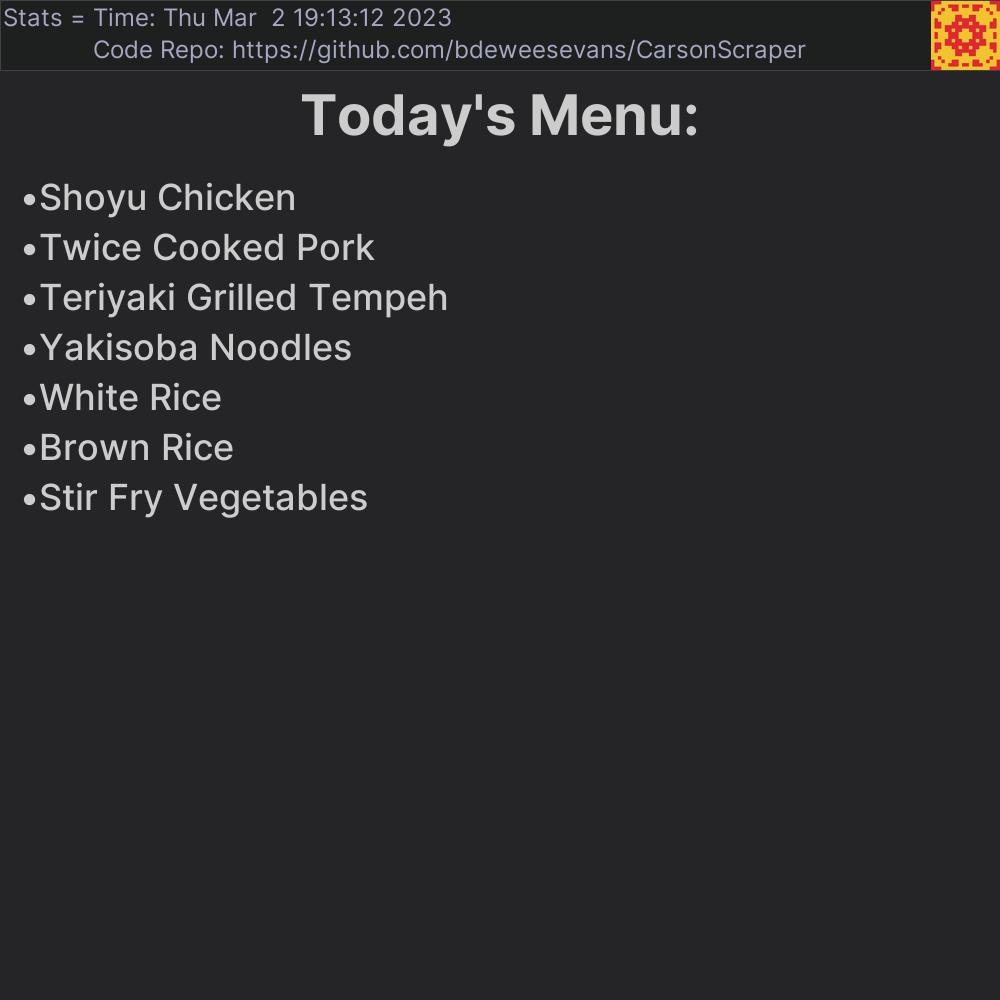
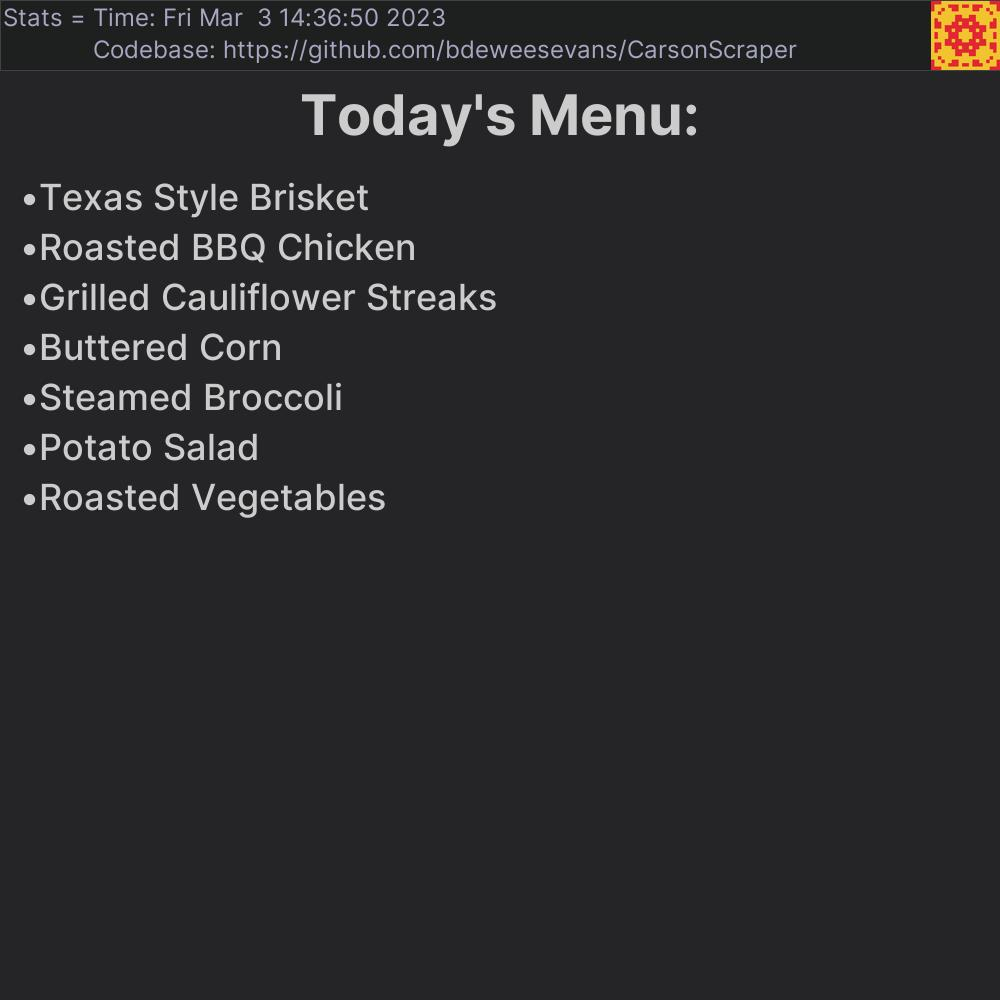
added gitignore file

Changed region(s): [[0.031, 0.186, 0.496, 0.527], [0.155, 0.0, 0.806, 0.062]]

diff --git a/imageCreator.py b/imageCreator.py
@@ -28,7 +28,7 @@ def image_creator(menu_items, image_width, image_height):
     statsFont = ImageFont.truetype('assets/fonts/Inter-Regular.ttf', int(image_width * 0.024), encoding="unic")
     text_width, text_height = statsFont.getsize(unicode_text)
     draw.text((3, 2), f"Stats = Time: {time.ctime()}", font=statsFont, fill=(165, 168, 194))    #add stats like followers?
-    draw.text((3 + text_width, image_height*0.034), "Code Repo: https://github.com/bdeweesevans/CarsonScraper", font=statsFont, fill=(165, 168, 194))
+    draw.text((3 + text_width, image_height*0.034), "Codebase: https://github.com/bdeweesevans/CarsonScraper", font=statsFont, fill=(165, 168, 194))
 
     # Icon (scaled)
     icon = Image.open('assets/program_images/icon.png')
@@ -40,14 +40,19 @@ def image_creator(menu_items, image_width, image_height):
     # Menu title (scaled)
     unicode_text = u"Today's Menu:"
     titleFont = ImageFont.truetype('assets/fonts/Inter-Bold.ttf', int(image_width * 0.056), encoding="unic")
-    text_width, text_height = titleFont.getsize(unicode_text)
-    draw.text(((image_width/2)-(text_width/2), image_height * 0.08), "Today's Menu:", font=titleFont, fill=(205, 204, 205))
+    title_width, title_height = titleFont.getsize(unicode_text)
+    draw.text(((image_width/2)-(title_width/2), image_height * 0.08), "Today's Menu:", font=titleFont, fill=(205, 204, 205))
 
-    # Menu items (unscaled)
-    titleFont = ImageFont.truetype('assets/fonts/Inter-Medium.ttf', int(image_width * 0.036), encoding="unic")
-    for item in range(len(menu_items)):
-        draw.text((20, (item+3.5)*50), f"•{menu_items[item]}", font=titleFont, fill=(205, 204, 205))
-                        #item+y: y controls item start pos
+    if (len(menu_items) == 0):
+        noDataFont = ImageFont.truetype('assets/fonts/Inter-Medium.ttf', int(image_width * 0.036), encoding="unic")
+        noData_width, noData_height = noDataFont.getsize(unicode_text)
+        draw.text(((image_width/2)-(noData_width/2), image_height * 0.2), "No menu data provided on website", font=noDataFont, fill=(205, 204, 205))
+    else:
+        # Menu items (unscaled)
+        menuFont = ImageFont.truetype('assets/fonts/Inter-Medium.ttf', int(image_width * 0.036), encoding="unic")
+        for item in range(len(menu_items)):
+            draw.text((20, (item+3.5)*50), f"•{menu_items[item]}", font=menuFont, fill=(205, 204, 205))
+                #item+y: y controls item start pos
 
     # Shows and saves post image
     img.show()

diff --git a/flickrAPI.py b/flickrAPI.py
@@ -19,16 +19,21 @@ if (os.path.getsize("auth.txt") == 0):
     print('Oauth info has been written to file for later reference.')
 
 flickr_api.set_auth_handler('auth.txt')
-print('Session: Authorized')
+print('Flickr Session: Authorized')
 
 # Function uploads photo to Flickr and returns link.
 def uploadToFlickr():
     # Uploads Image
     uploaded_image = flickr_api.upload(photo_file = 'assets/post_images/image.jpg', title='Auto-upload.', description=f'Daily Dinner Menu for Carson Dining Hall, University of Oregon.\nTime of Upload: {str(time.ctime())}', is_public = '1', hidden = '2')
-    print('Image: Uploaded')
+    print('Flickr Image: Uploaded')
     flickr_photo_id = uploaded_image['id']
 
     download_info = (flickr_api.Photo.getSizes(uploaded_image))
     download_url = download_info['Original']['source']
-    print(f'Image Source URL: {download_url}')
-    return download_url
+    print(f'Flickr Image Source URL: {download_url}')
+    return download_url, uploaded_image
+
+def removeFromFlickr(uploaded_image):
+    flickr_api.Photo.delete(uploaded_image)
+    print('Flickr Image: Deleted from Flickr Cloud Storage')
+    return

diff --git a/main.py b/main.py
@@ -4,6 +4,7 @@ Run this file to initiate the program.
 # Import statements.
 import menuPuller, imageCreator, flickrAPI, instagramAPI
 
+print('---Execution Begin.---')
 # Collects menu items using menuPuller.py.
 menu_items = menuPuller.dinner_scraper()
 
@@ -11,7 +12,12 @@ menu_items = menuPuller.dinner_scraper()
 imageCreator.image_creator(menu_items, 1000, 1000)
 
 # Uploads image to Flickr using flickrAPI.py and returns download link.
-link = flickrAPI.uploadToFlickr()
+flickr_image_link, uploaded_image_object = flickrAPI.uploadToFlickr()
 
 # Uploads image to Instagram using instagramAPI.py.
-instagramAPI.postInstagramImage(link)
+instagramAPI.postInstagramImage(flickr_image_link)
+
+# Deletes the image from Flickr cloud storage.
+flickrAPI.removeFromFlickr(uploaded_image_object)
+
+print('---Execution Complete.---')

diff --git a/instagramAPI.py b/instagramAPI.py
@@ -16,7 +16,7 @@ def postInstagramImage(flickr_image_link):
         'access_token': user_access_token
     }
     r = requests.post(post_url, data=payload)
-    print(r.text)
+    print(f'Instagram Image Bin: {r.text}')
     result = json.loads(r.text)
 
     # Deliveres post object, uploading.
@@ -28,7 +28,7 @@ def postInstagramImage(flickr_image_link):
         'access_token': user_access_token
         }
         r = requests.post(second_url, data=second_payload)
-        print('--------Just posted to instagram--------')
-        print(r.text)
+        print('Instagram Image: Uploaded')
+        print(f'Instagram Image Post: {r.text}')
     else:
-        print('HOUSTON we have a problem')
+        print('Instagram Error: HOUSTON we have a problem')
